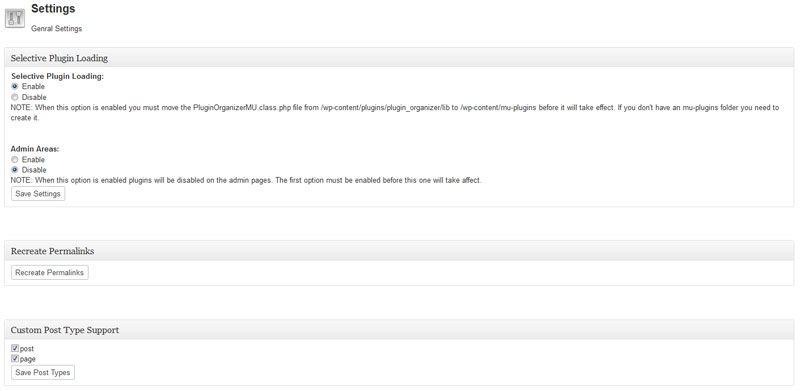
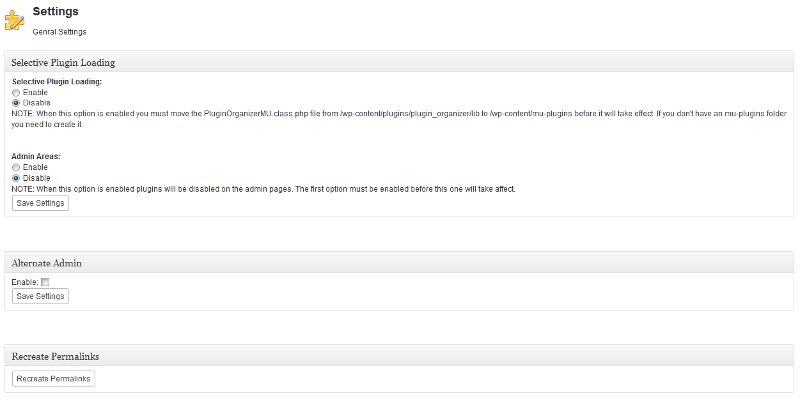
Fixed plugin Group Display.  Fixed option setting form.
git-svn-id: https://plugins.svn.wordpress.org/plugin-organizer/trunk@531977 b8457f37-d9ea-0310-8a92-e5e31aec5664

diff --git a/lib/PluginOrganizer.class.php b/lib/PluginOrganizer.class.php
@@ -14,7 +14,7 @@ class PluginOrganizer {
 			"new_group_name" => "/^[A-Za-z0-9_\-]+$/",
 			"default" => "/^(.|\\n)*$/"
 		);
-		if (get_option("PO_version_num") != "2.1.1") {
+		if (get_option("PO_version_num") != "2.1.2") {
 			$this->activate();
 		}
 	}
@@ -81,8 +81,8 @@ class PluginOrganizer {
 			update_option('PO_alternate_admin', "1");
 		}
 		
-		if (get_option("PO_version_num") != "2.1.1") {
-			update_option("PO_version_num", "2.1.1");
+		if (get_option("PO_version_num") != "2.1.2") {
+			update_option("PO_version_num", "2.1.2");
 		}
 	}
 	
@@ -109,7 +109,7 @@ class PluginOrganizer {
 	
 	function admin_menu() {
 		global $wpdb;
-		if($wpdb->get_var("SHOW TABLES LIKE '".$wpdb->prefix."PO_groups'") != $wpdb->prefix."PO_groups" || get_option("PO_version_num") != "2.1.1") {
+		if($wpdb->get_var("SHOW TABLES LIKE '".$wpdb->prefix."PO_groups'") != $wpdb->prefix."PO_groups" || get_option("PO_version_num") != "2.1.2") {
 			$this->activate();
 		}
 		if ( current_user_can( 'activate_plugins' ) ) {
@@ -961,7 +961,7 @@ class PluginOrganizer {
 	function reorder_plugins($allPluginList) {
 		global $wpdb;
 		$plugins = get_option("active_plugins");
-		if (is_admin() && $this->pluginPageActions == 1) {
+		if (is_admin() && $this->pluginPageActions == 1 && !is_numeric($_REQUEST['PO_group_view'])) {
 			$perPage = get_user_option("plugins_per_page");
 			if (!is_numeric($perPage)) {
 				$perPage = 20;

diff --git a/lib/PluginOrganizerMU.class.php b/lib/PluginOrganizerMU.class.php
@@ -3,7 +3,7 @@
 Plugin Name: Plugin Organizer MU
 Plugin URI: http://wpmason.com
 Description: A plugin for specifying the load order of your plugins.
-Version: 2.1.1
+Version: 2.1.2
 Author: Jeff Sterup
 Author URI: http://www.jsterup.com
 License: GPL2
@@ -15,7 +15,7 @@ class PluginOrganizerMU {
 		global $wpdb, $pagenow;
 		$newPluginList = array();
 		if (get_option("PO_disable_plugins") == "1" && ((get_option('PO_admin_disable_plugins') != "1" && !is_admin()) || (get_option('PO_admin_disable_plugins') == "1" && $pagenow != "plugins.php"))) {
-			if (get_option("PO_version_num") != "2.1.1" && !is_admin()) {
+			if (get_option("PO_version_num") != "2.1.2" && !is_admin()) {
 				$newPluginList = $pluginList;
 				update_option("PO_disable_plugins", "0");
 			} else {

diff --git a/tpl/settings.php b/tpl/settings.php
@@ -37,9 +37,7 @@
 				<input type=submit name=submit value="Save Settings" />
               </div>
             </div>
-	      </form>
 		  <br /><br />
-		  <form method=post name="po_general_settings" action="">
 		    <div id="alternate-admin-div" class="stuffbox" style="width: 98%">
 			  <h3><label for="alternate-admin">Alternate Admin</label></h3>
 			  <div class="inside">

diff --git a/plugin-organizer.php b/plugin-organizer.php
@@ -3,7 +3,7 @@
 Plugin Name: Plugin Organizer
 Plugin URI: http://wpmason.com
 Description: A plugin for specifying the load order of your plugins.
-Version: 2.1.1
+Version: 2.1.2
 Author: Jeff Sterup
 Author URI: http://www.jsterup.com
 License: GPL2
